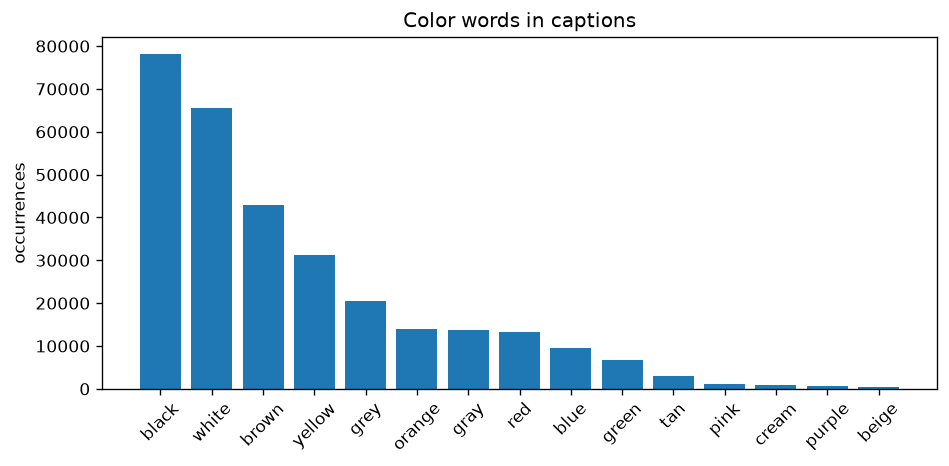
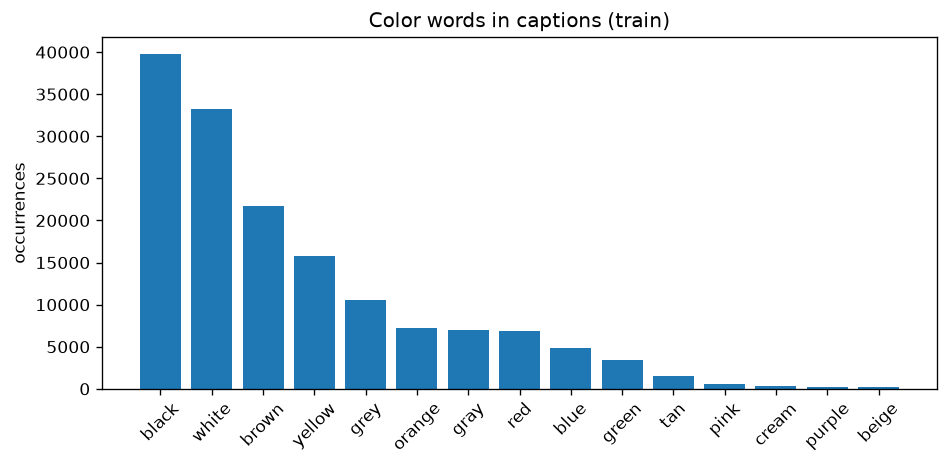
fix(eda): compute the caption evidence for augmentation on train only
The left/right and color-word shares were computed over train and test
captions. They justify training choices (horizontal flip, no hue
jitter), so like min_freq they now use train captions only. Values
barely move: left/right 0.043% -> 0.038%, color word 97.62% -> 97.61%.

diff --git a/src/data/eda.py b/src/data/eda.py
@@ -786,8 +786,8 @@ def step_captions(ctx: EDAContext):
     removed_chars = Counter(ch for s in caps.raw for ch in s.lower() if not re.match(r"[a-z0-9 ]", ch))
     info["characters_removed_by_cleaning"] = dict(removed_chars.most_common(20))
 
-    # 6) Evidence for augmentation choices
-    tokens = caps.clean.str.split()
+    # 6) Evidence for augmentation choices (train only, like every other training decision)
+    tokens = train_caps.clean.str.split()
     info["%_captions_mentioning_left_or_right"] = round(
         100 * tokens.map(lambda t: "left" in t or "right" in t).mean(), 3)
     info["%_captions_with_a_color_word"] = round(
@@ -796,7 +796,7 @@ def step_captions(ctx: EDAContext):
     fig, ax = plt.subplots(figsize=(8, 4))
     words, counts = zip(*color_counts.most_common(15)) if color_counts else ((), ())
     ax.bar(words, counts)
-    ax.set(title="Color words in captions", ylabel="occurrences")
+    ax.set(title="Color words in captions (train)", ylabel="occurrences")
     ax.tick_params(axis="x", rotation=45)
     save_fig(fig, ctx.fig_dir / "05_color_words.png")
 
